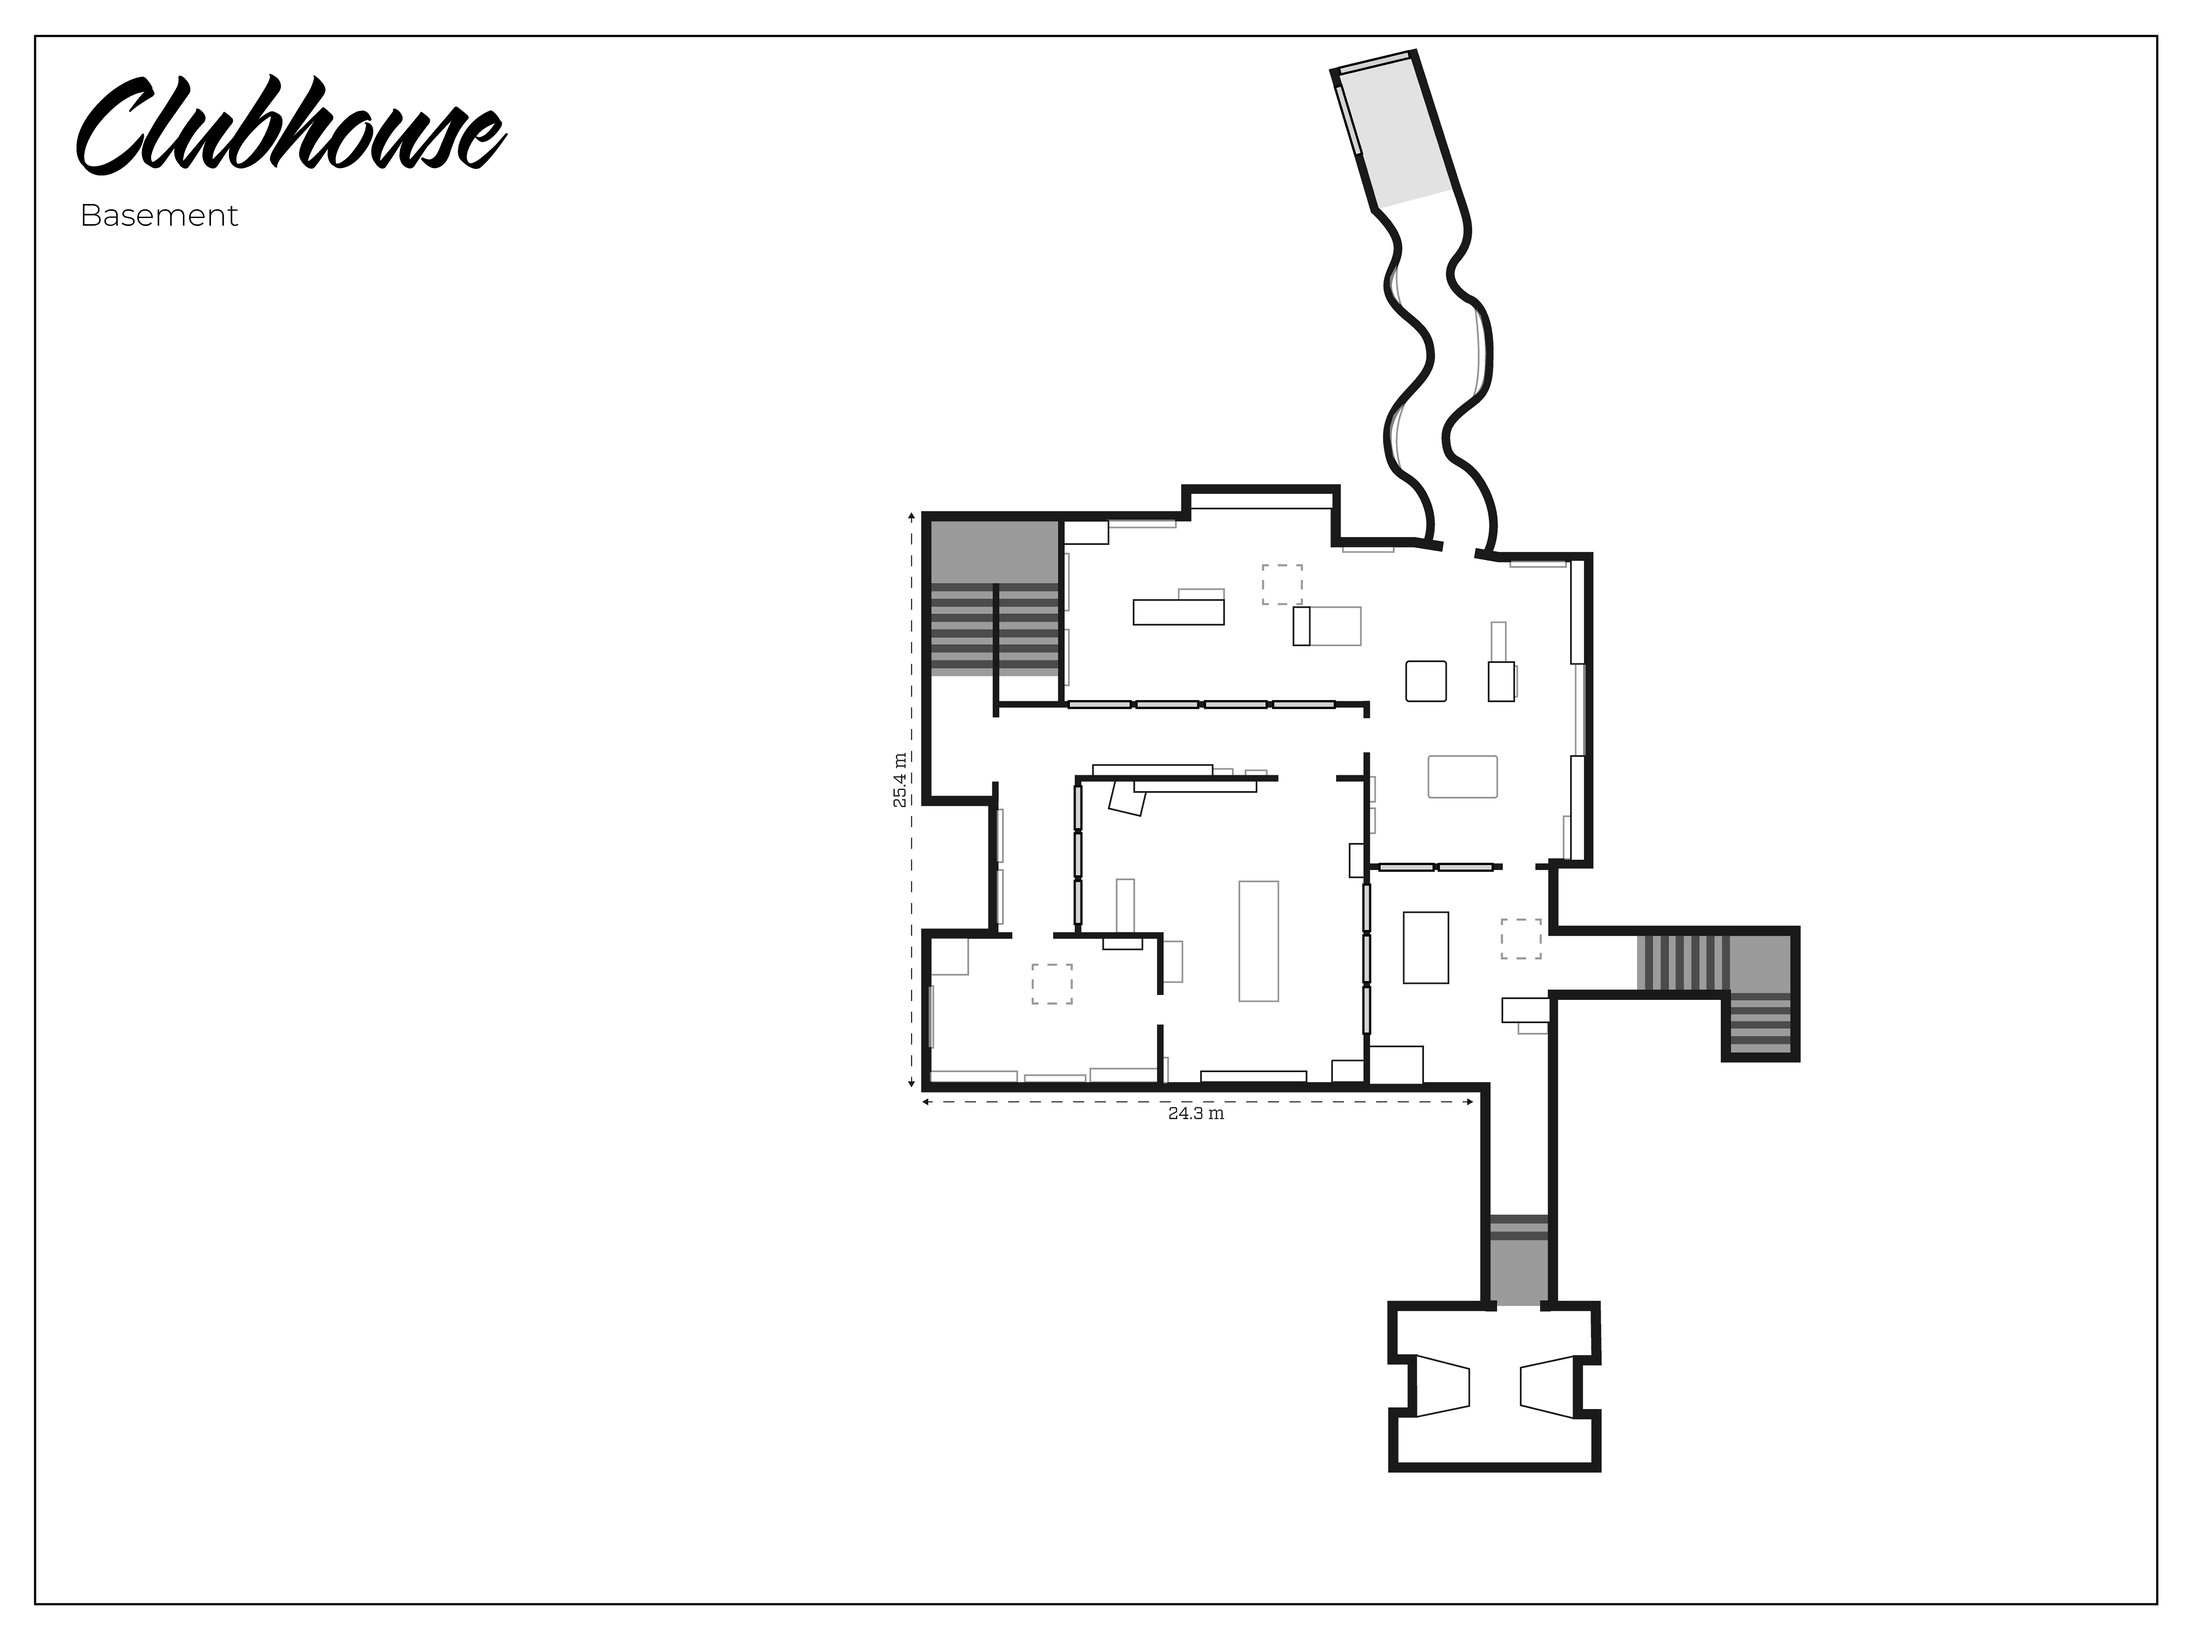
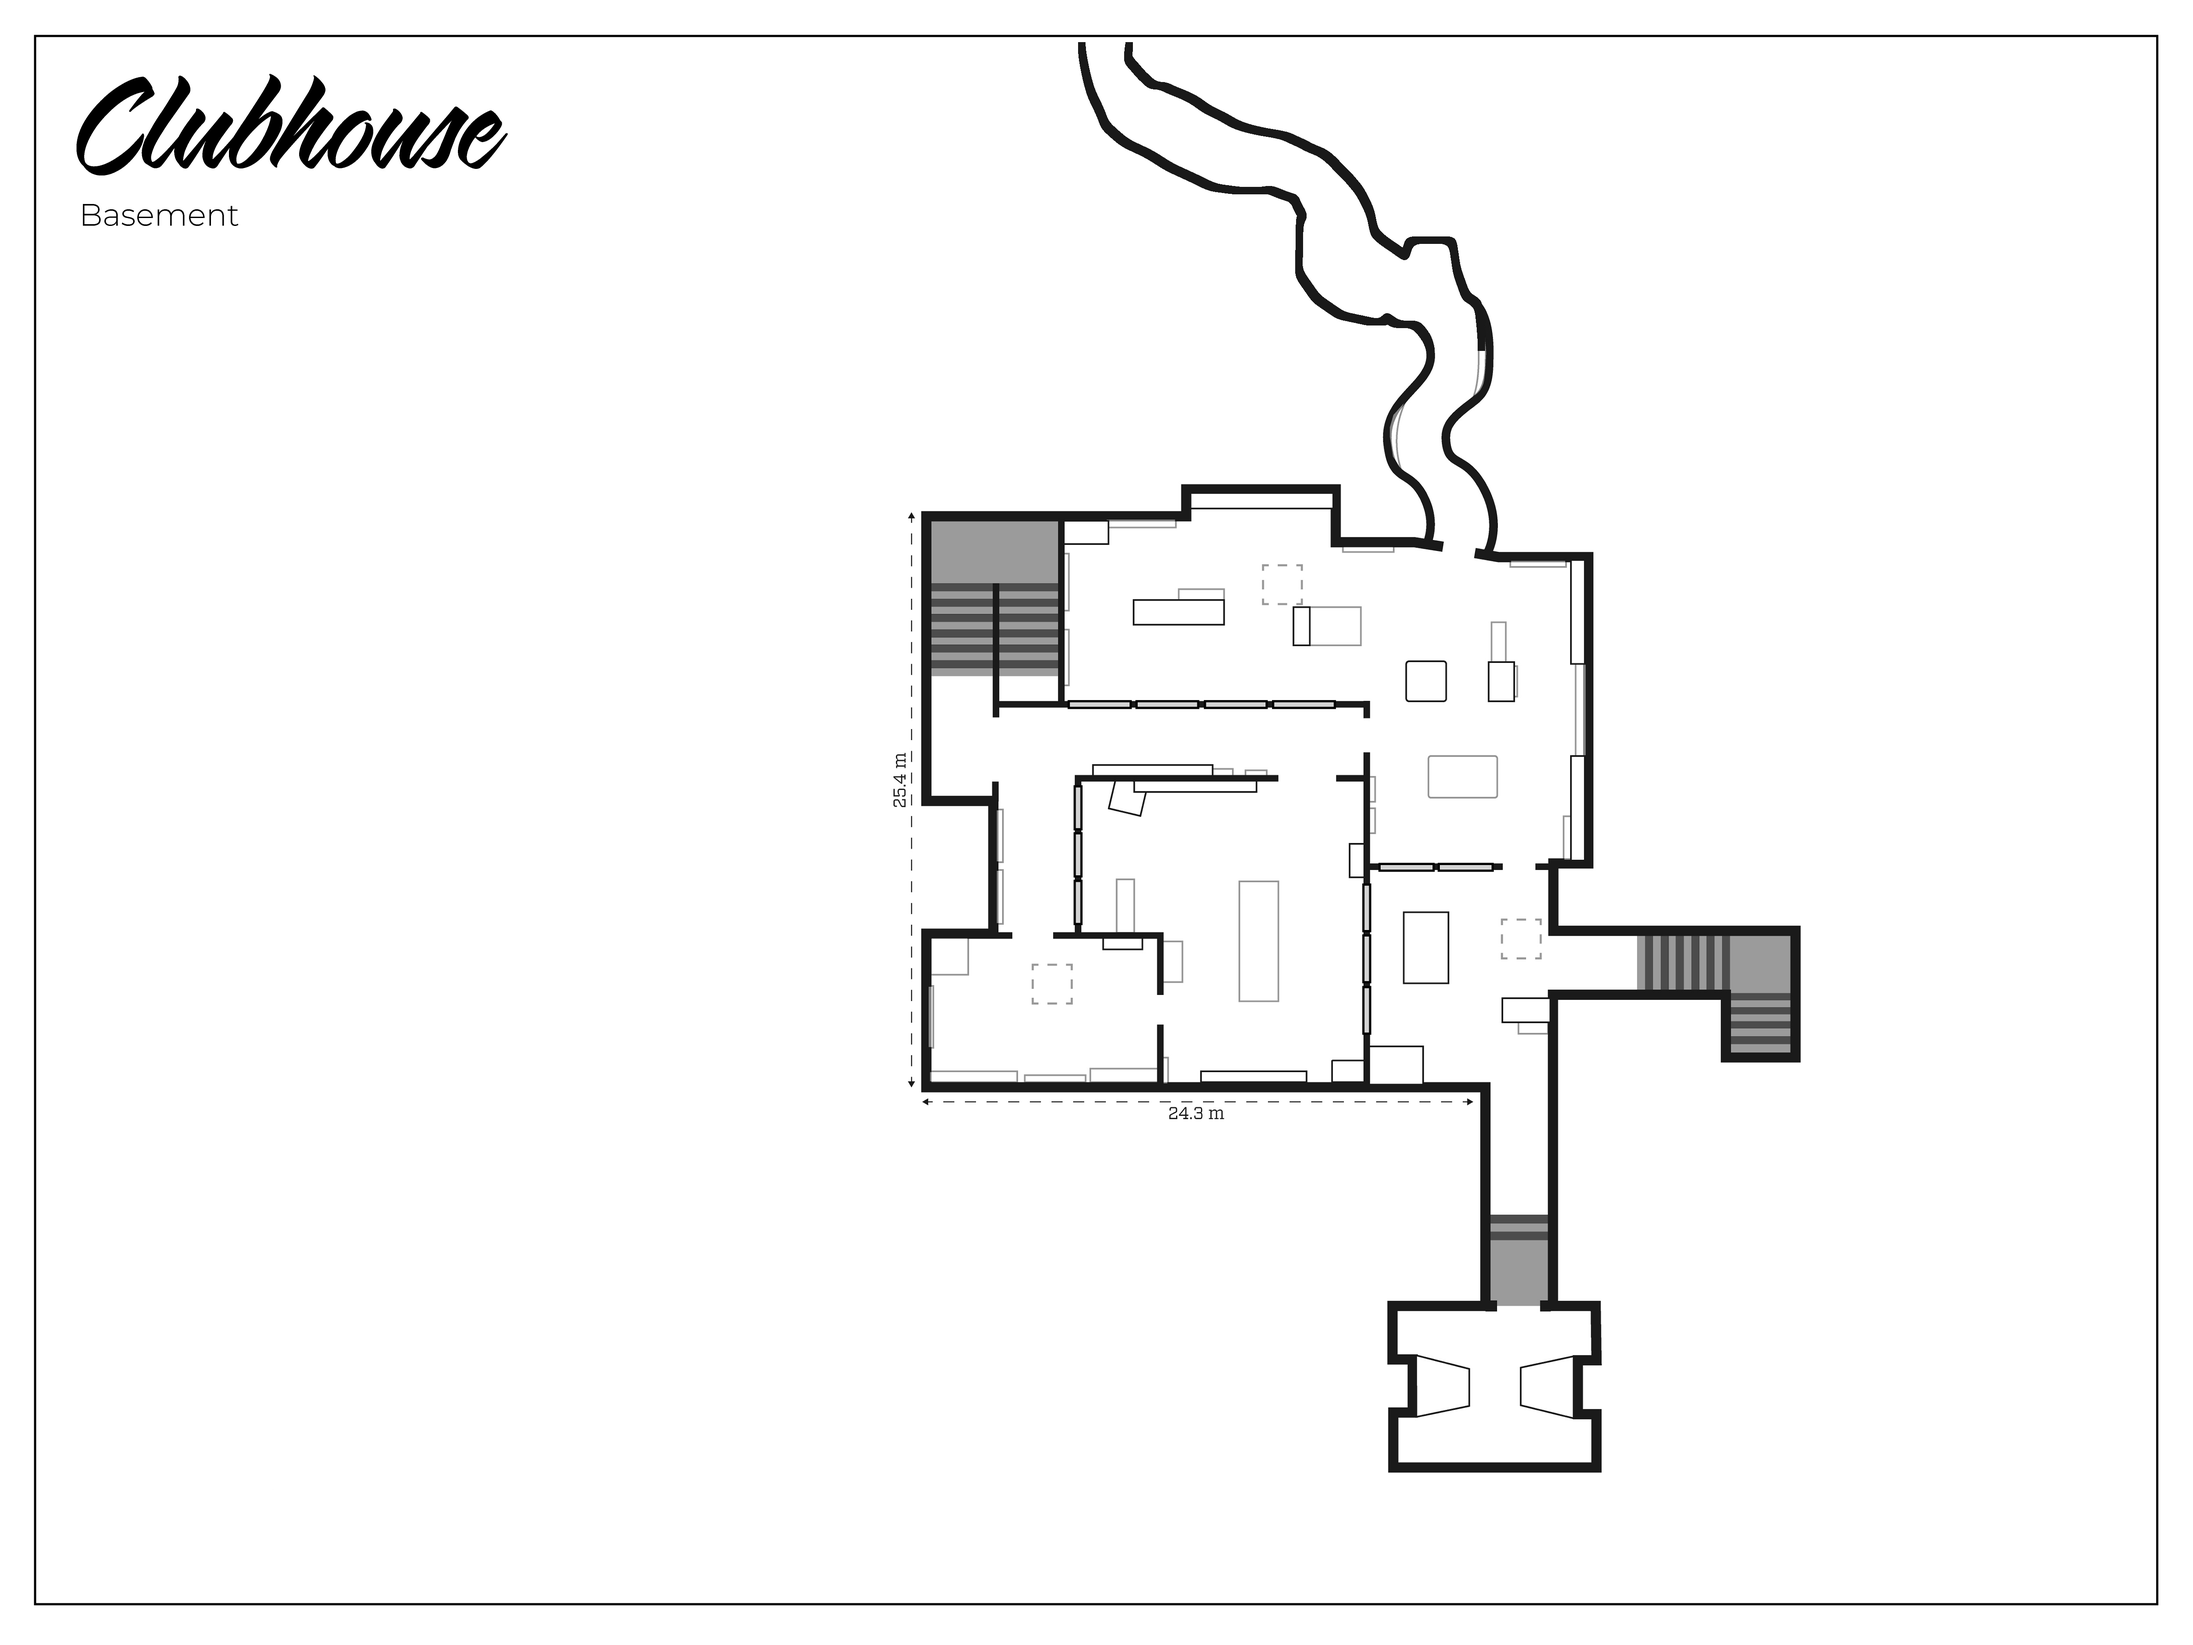
Redraw the end of Clubhouse's basement tunnel from replay movement
The drawn tunnel ended in a north-north-east segment and room that no player
enters at tunnel height (ground-level players walk across it). Players of
93 rounds, attackers and defenders in all phases, instead follow the tunnel
north-west at a constant z of about -2.5 and out of the top of the frame,
where it rises to ground level. The unused segment is removed and the tunnel
is redrawn with walls 0.3 m outside the occupied band, in the existing wall
style.

Changed region(s): [[0.468, 0.0312, 0.6864, 0.2184]]

diff --git a/docs/content.md b/docs/content.md
@@ -61,6 +61,7 @@ Villaの構造変更は地下のみのため、2階・1階はSternab氏の`Villa
 | Bank | 地下が1階より南へ約11 m（716 px）ずれた位置。2階も約1.5 mずれていた | 3階層を各階層の照合結果から共通の位置と縮尺（55 px/m、原図の0.87倍）へ再標本化。地下の駐車場まで枠内に収めるため縮小 |
 | Villa | 地下（Stratbook）と1階・2階（Sternab）で縮尺と位置が異なる。地下ガレージ東側の開口部が約0.9 m南にずれ、北東の屋外階段がない | 1階を基準に、地下SVGを変換し2階を再標本化。地下の開口部を北へ移し、北東の屋外階段を追加 |
 | Clubhouse | 地下・1階・2階の縮尺が異なる（58、66.7、70 px/m）うえに位置もずれていた | 3階層を各階層の照合結果から共通の位置と縮尺（54 px/m）へ再標本化。地下の通路の先端まで枠内に収めるため縮小 |
+| Clubhouse 地下の通路 | 通路の先が北北東の部屋へ向かって描かれていたが、プレイヤーは使っていない。実際の通路は北西へ曲がり、高さを保ったまま北へ抜ける | 未使用の区間を消し、通路の高さにいるプレイヤーの位置から壁の位置（占有範囲の端から0.3 m外側）を求めて北西の通路を描き直し。枠の上端で開いたままにしている |
 
 Sternab氏の画像を補正した階層は、原図を軸ごとの拡大縮小と平行移動だけで再標本化（バイキュービック）し、外枠と見出しは原図の位置のまま残しています。`sourceFile`は元の原図名のままで、`assets/map-sources/`のJPEGが補正版です（sharpで品質98、4:4:4）。出典はSternab氏のままです。補正していない階層は原図と同一のファイルです。
 
